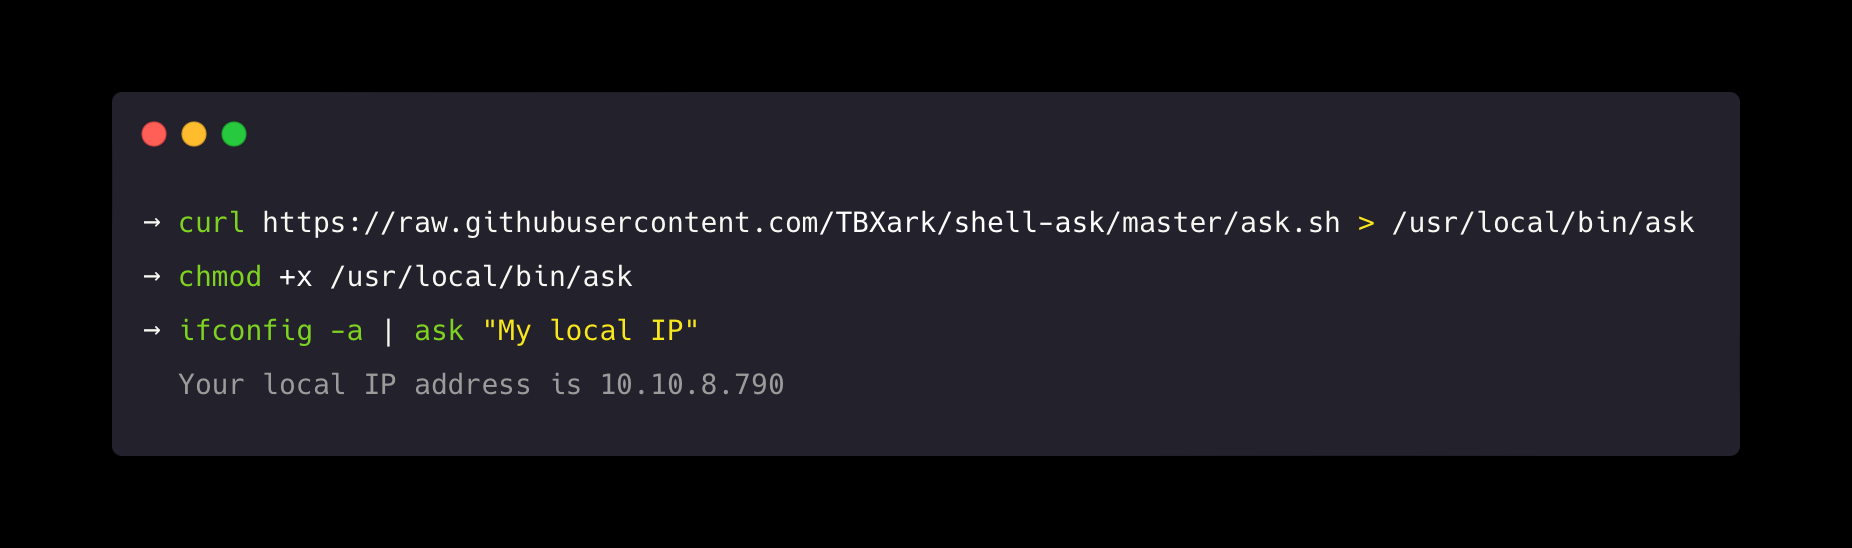
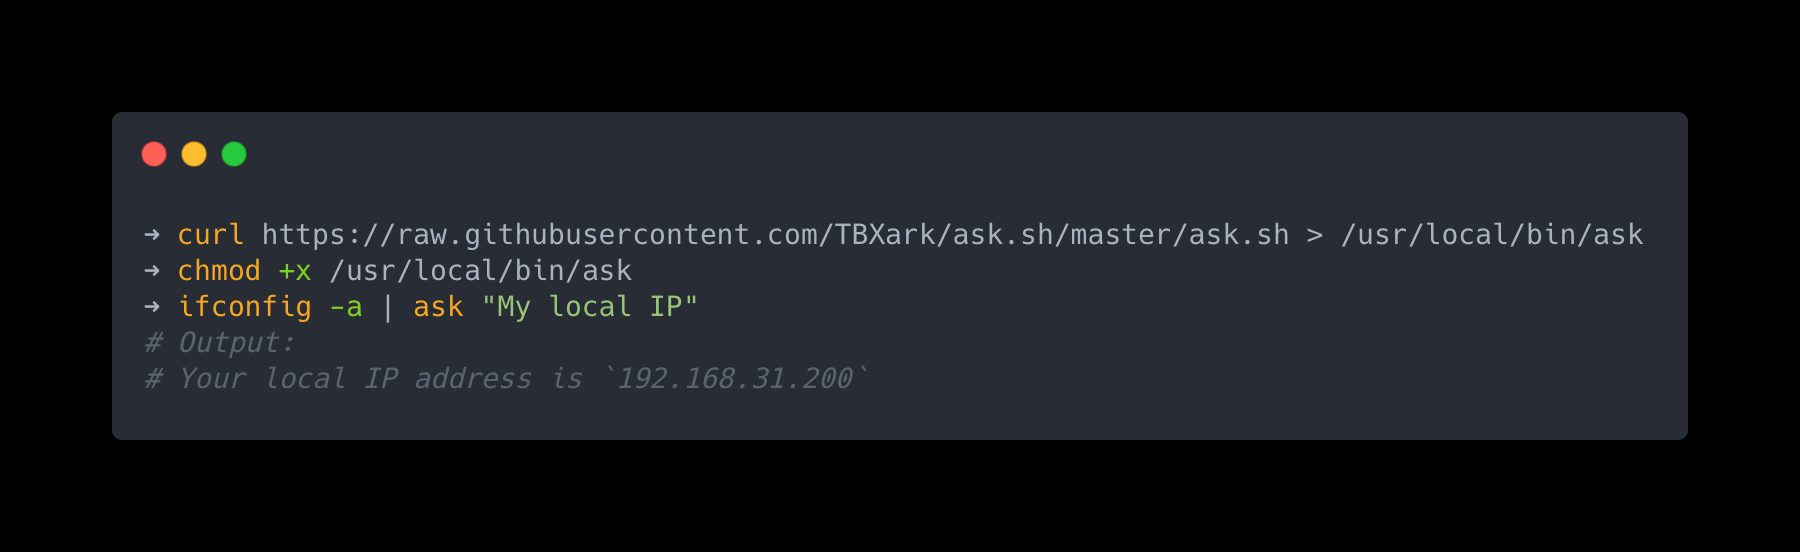
feat: 重命名项目为ask.sh，更新相关文档和环境变量前缀

Changed region(s): [[0.0622, 0.3723, 0.9333, 0.7135], [0.0622, 0.1551, 0.9644, 0.3102], [0.0622, 0.7755, 0.9644, 0.8376]]

diff --git a/scripts/postinstall.js b/scripts/postinstall.js
@@ -4,13 +4,13 @@ const { execSync } = require('child_process');
 const path = require('path');
 const fs = require('fs');
 
-console.log('Setting up shell-ask...');
+console.log('Setting up ask.sh...');
 
 // Make ask.sh executable
 const askPath = path.join(__dirname, '..', 'ask.sh');
 if (fs.existsSync(askPath)) {
     execSync(`chmod +x "${askPath}"`);
-    console.log('shell-ask has been installed successfully!');
+    console.log('ask.sh has been installed successfully!');
     console.log('You can now use \'ask\' command in your terminal.');
     console.log('');
     console.log('To get started, set up your API key:');

diff --git a/README.md b/README.md
@@ -1,4 +1,4 @@
-# **shell-ask** (shell ver)
+# **ask.sh**
 
 Ask LLM directly from your terminal, and let the AI answer your terminal's output without leaving the terminal. Or generate shell commands you're not familiar with. A bash script will do the trick. You can even manually write plugins to let AI help you do more things.
 
@@ -8,15 +8,9 @@ Ask LLM directly from your terminal, and let the AI answer your terminal's outpu
 
 This script is written in bash, Simply download the script and add execution permissions, this script relies on `curl` and `jq`, make sure they are installed on your system!
 
-### Interactive Install
-```bash
-curl -fsSL https://raw.githubusercontent.com/TBXark/shell-ask/master/install.sh | bash
-```
-This will prompt you to choose the installation directory (default: `/usr/local/bin/`).
-
 ### Manual Install
 ```bash
-curl https://raw.githubusercontent.com/TBXark/shell-ask/master/ask.sh > /usr/local/bin/ask
+curl https://raw.githubusercontent.com/TBXark/ask.sh/master/ask.sh > /usr/local/bin/ask
 chmod +x /usr/local/bin/ask
 ```
 ### Install by npm
@@ -52,19 +46,19 @@ ask get-config
 ### Environment Variables
 If you don't want to use a configuration file, you can set the configuration via environment variables.
 ```bash
-export SHELL_ASK_API_KEY=xxx
-export SHELL_ASK_API_MODEL=xxx
-export SHELL_ASK_API_ENDPOINT=xxx
-export SHELL_ASK_ANSWER_LANGUAGE=xxx
-export SHELL_ASK_TIMEOUT=60
-export SHELL_ASK_DEBUG=false
+export ASK_SH_API_KEY=xxx
+export ASK_SH_API_MODEL=xxx
+export ASK_SH_API_ENDPOINT=xxx
+export ASK_SH_ANSWER_LANGUAGE=xxx
+export ASK_SH_TIMEOUT=60
+export ASK_SH_DEBUG=false
 ```
 
-Or you can change configuration file path by setting `SHELL_ASK_CONFIG_FILE` environment variable
+Or you can change configuration file path by setting `ASK_SH_CONFIG_FILE` environment variable
 
 ```bash
-export SHELL_ASK_CONFIG_FILE=/path/to/config.json
-export SHELL_ASK_CONFIG_DIR=/path/to/config/dir
+export ASK_SH_CONFIG_FILE=/path/to/config.json
+export ASK_SH_CONFIG_DIR=/path/to/config/dir
 ```
 
 
@@ -90,7 +84,7 @@ Enable debug mode to see detailed request/response information:
 ```bash
 ask --debug "How to list files?"
 # Or set via environment
-export SHELL_ASK_DEBUG=true
+export ASK_SH_DEBUG=true
 ask "How to list files?"
 ```
 
@@ -114,7 +108,7 @@ ask --version
 ### Plugin Management
 ```bash
 # Install a plugin
-ask install-plugin https://raw.githubusercontent.com/TBXark/shell-ask/master/plugins/translate.sh
+ask install-plugin https://raw.githubusercontent.com/TBXark/ask.sh/master/plugins/translate.sh
 
 # List installed plugins  
 ask list-plugins
@@ -126,7 +120,7 @@ echo "Hello, World" | ask -p translate chinese
 
 ### Install Plugin
 ```bash
-ask install-plugin https://raw.githubusercontent.com/TBXark/shell-ask/master/plugins/translate.sh
+ask install-plugin https://raw.githubusercontent.com/TBXark/ask.sh/master/plugins/translate.sh
 ```
 Or you can install the plugin manually in the `~/.config/ask.sh/plugins` directory
 
@@ -179,18 +173,18 @@ ask -p <plugin_name> [args]           # Use a plugin
 
 ### Environment Variables
 All configuration can be overridden using environment variables:
-- `SHELL_ASK_API_KEY`
-- `SHELL_ASK_API_MODEL`
-- `SHELL_ASK_API_ENDPOINT`
-- `SHELL_ASK_ANSWER_LANGUAGE`
-- `SHELL_ASK_TIMEOUT`
-- `SHELL_ASK_DEBUG`
-- `SHELL_ASK_CONFIG_FILE` - Custom config file path
-- `SHELL_ASK_CONFIG_DIR` - Custom config directory path
+- `ASK_SH_API_KEY`
+- `ASK_SH_API_MODEL`
+- `ASK_SH_API_ENDPOINT`
+- `ASK_SH_ANSWER_LANGUAGE`
+- `ASK_SH_TIMEOUT`
+- `ASK_SH_DEBUG`
+- `ASK_SH_CONFIG_FILE` - Custom config file path
+- `ASK_SH_CONFIG_DIR` - Custom config directory path
 
 
 ## Thanks
 This project was inspired by the [egoist/shell-ask](https://github.com/egoist/shell-ask) project, but since it has a dependency on nodejs, I decided to rewrite it in bash
 
 ## License
-**shell-ask** is released under the MIT license. See LICENSE for details.
+**ask.sh** is released under the MIT license. See LICENSE for details.
